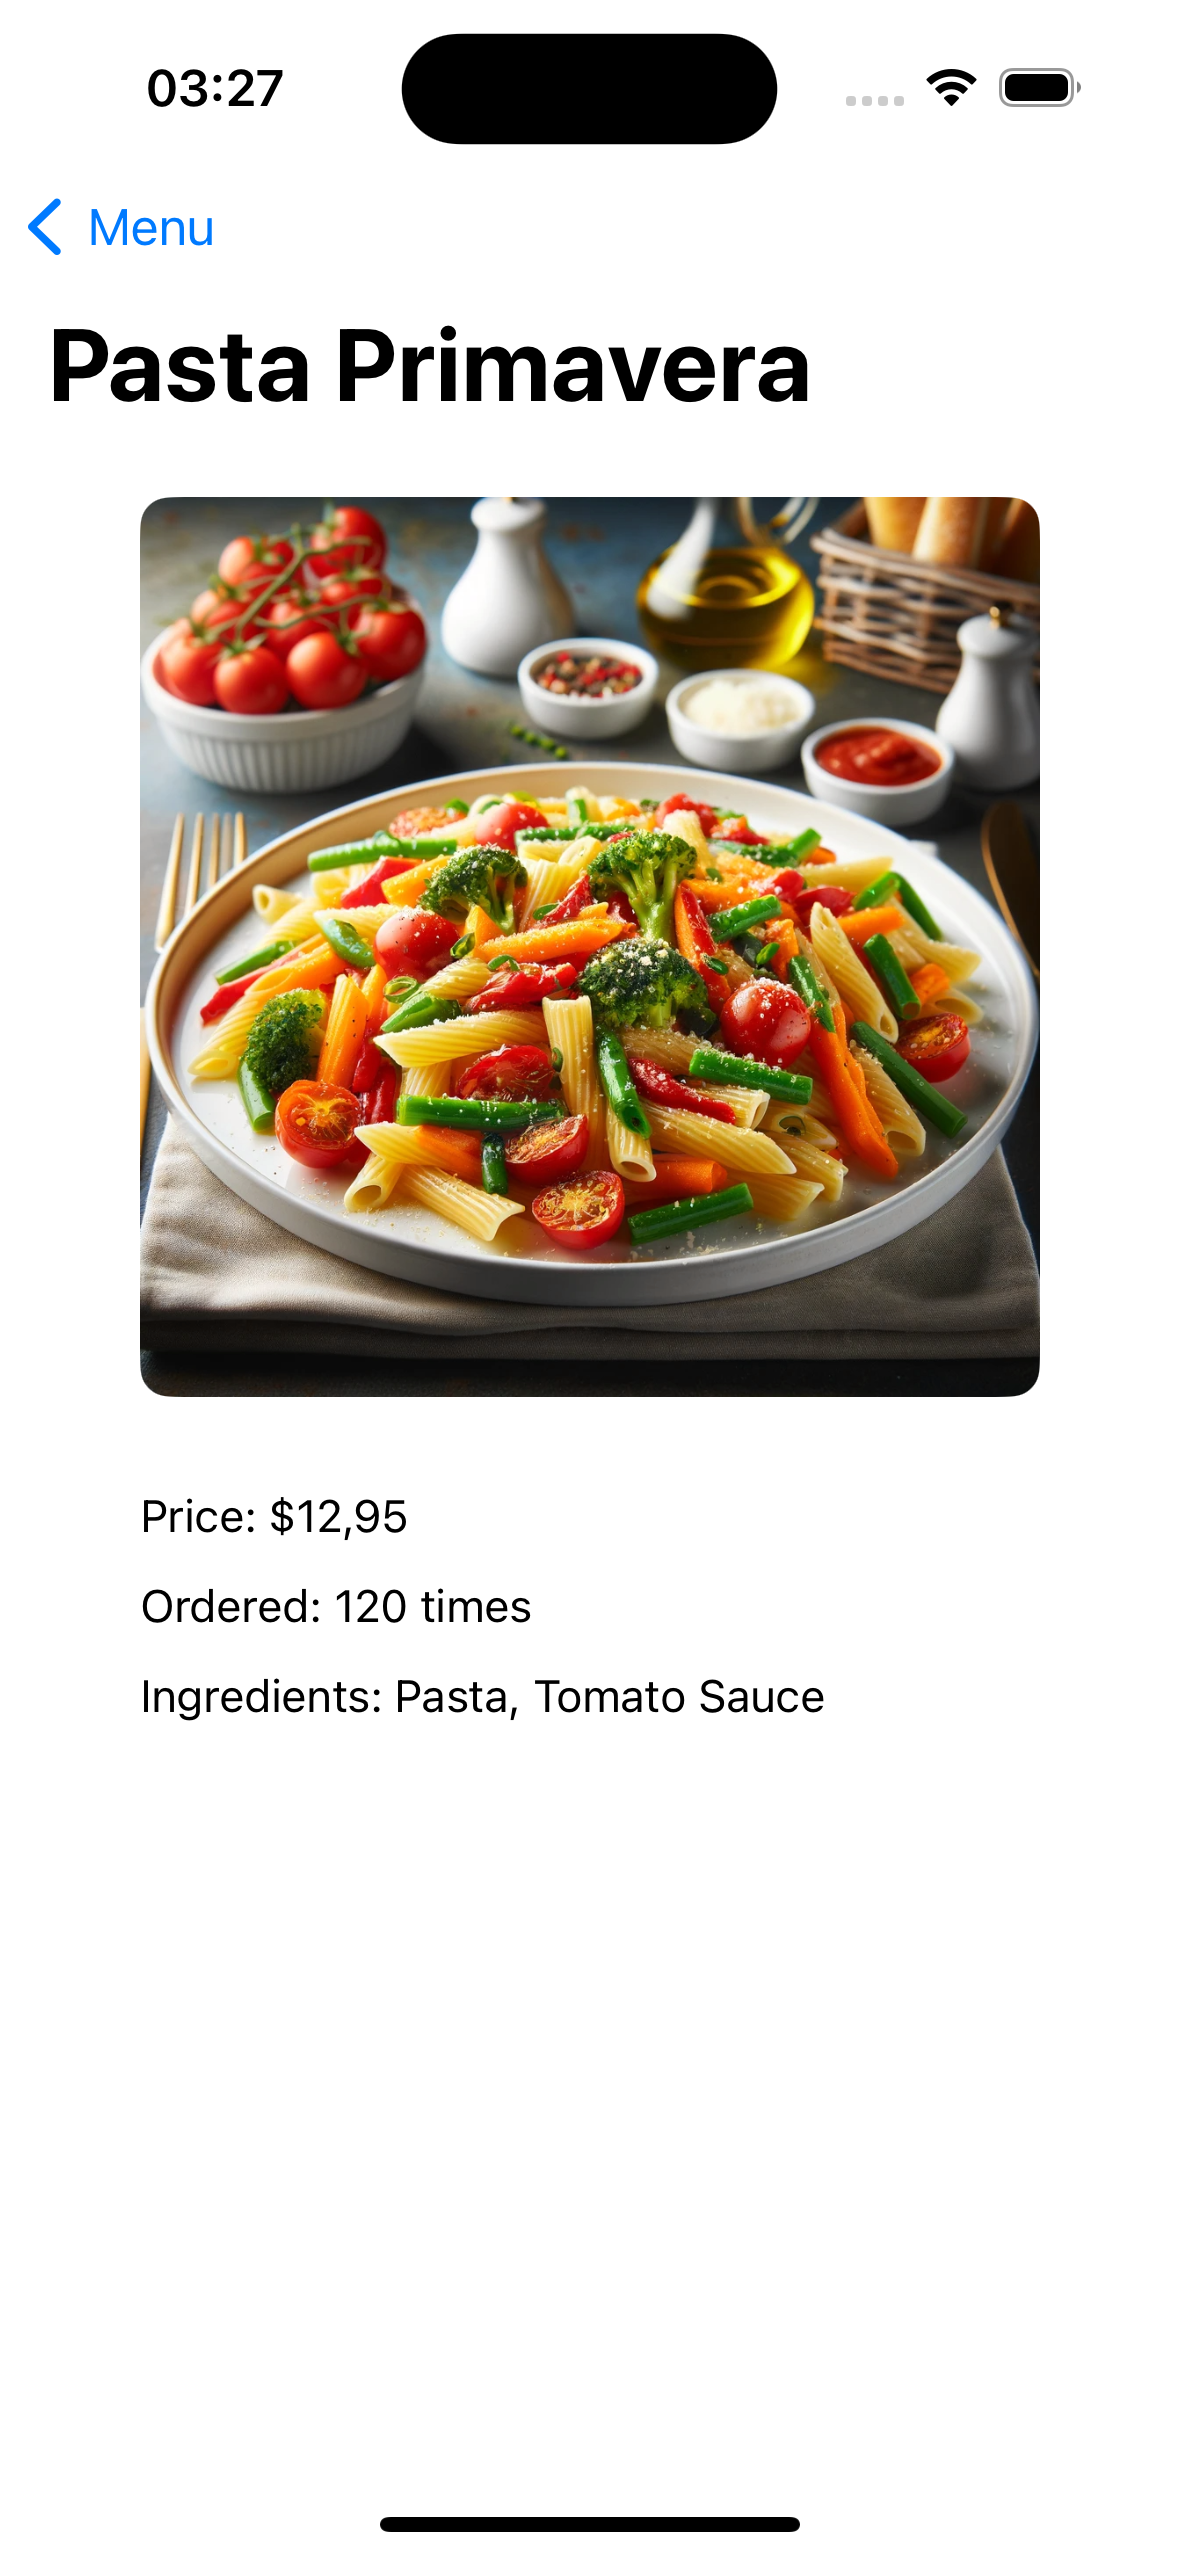
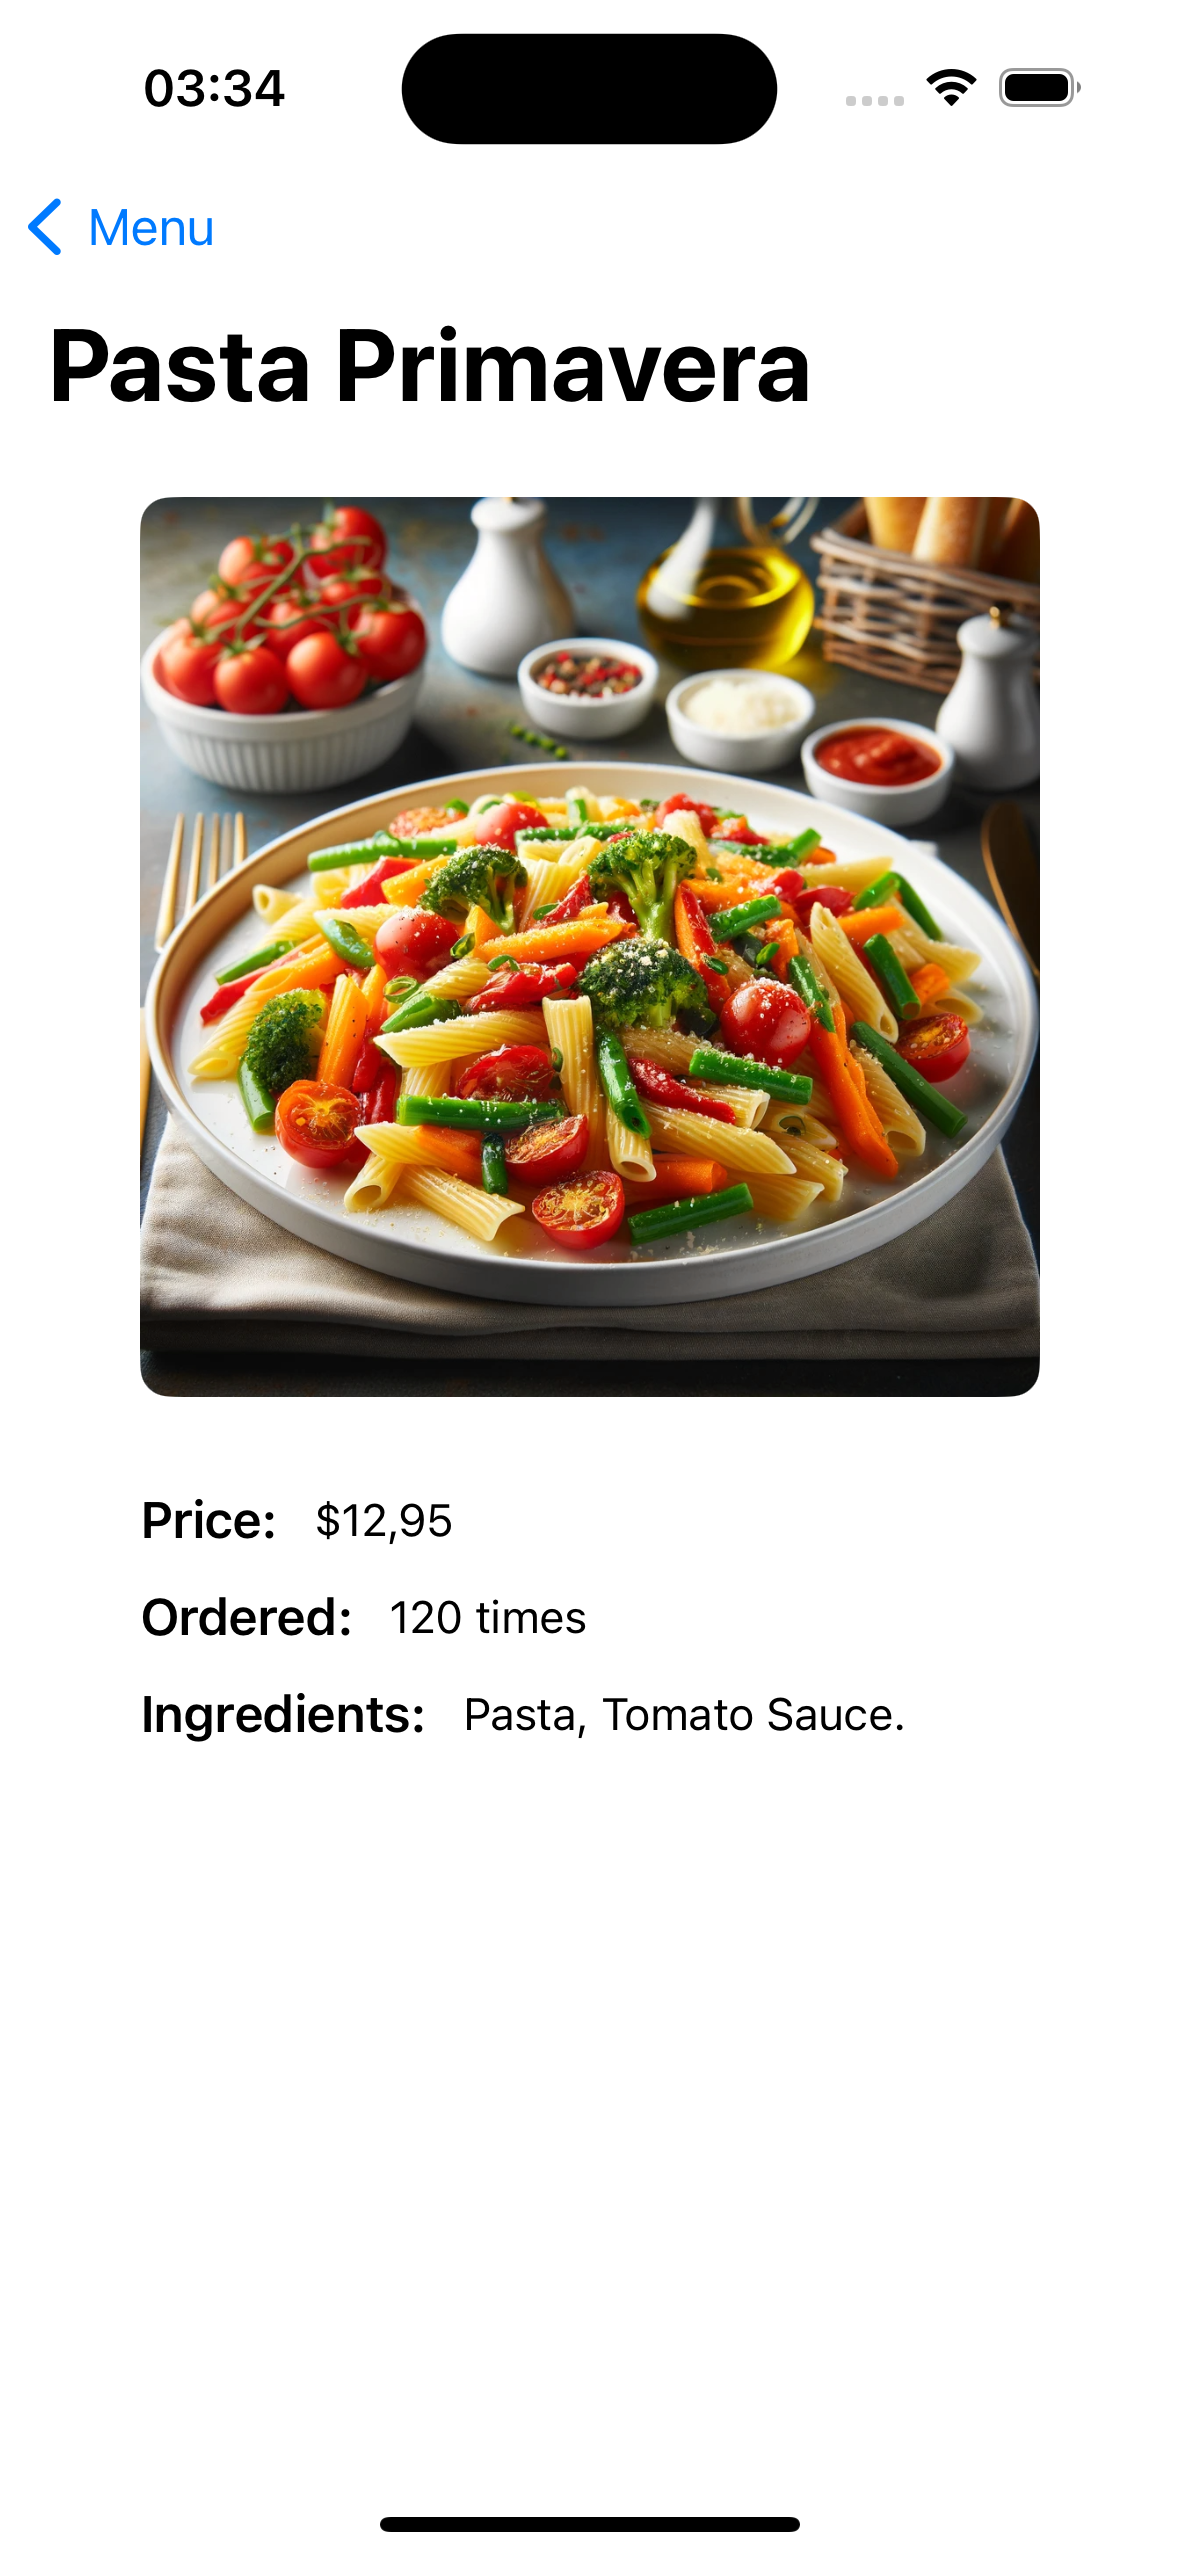
Update

Changed region(s): [[0.1221, 0.5872, 0.7634, 0.68], [0.1221, 0.0309, 0.2443, 0.0618]]

diff --git a/LittleLemonDinnerMenu/Views/MenuItemDetailsView.swift b/LittleLemonDinnerMenu/Views/MenuItemDetailsView.swift
@@ -20,15 +20,30 @@ struct MenuItemDetailsView: View {
                     .frame(width: 300, height: 300)
                     .cornerRadius(10)
                     .padding(.bottom, 20)
+                    
+                HStack {
+                    Text("Price: ")
+                        .font(.headline)
+                    Text("$\(item.price, specifier: "%.2f")")
+                        .font(.subheadline)
+                }
+
+                HStack {
+                    Text("Ordered: ")
+                        .font(.headline)
+                    
+                    Text("\(item.ordersCount) times")
+                        .font(.subheadline)
+                }
                 
-                Text("Price: $\(item.price, specifier: "%.2f")")
-                    .font(.subheadline)
-
-                Text("Ordered: \(item.ordersCount) times")
-                    .font(.subheadline)
-
-                Text("Ingredients: \(item.ingredients.map { $0.rawValue }.joined(separator: ", "))")
-                    .font(.subheadline)
+                if !item.ingredients.isEmpty {
+                    HStack {
+                        Text("Ingredients: ")
+                            .font(.headline)
+                        Text("\(item.ingredients.map { $0.rawValue }.joined(separator: ", ")).")
+                            .font(.subheadline)
+                    }
+                }
             }
             .padding()
         }
